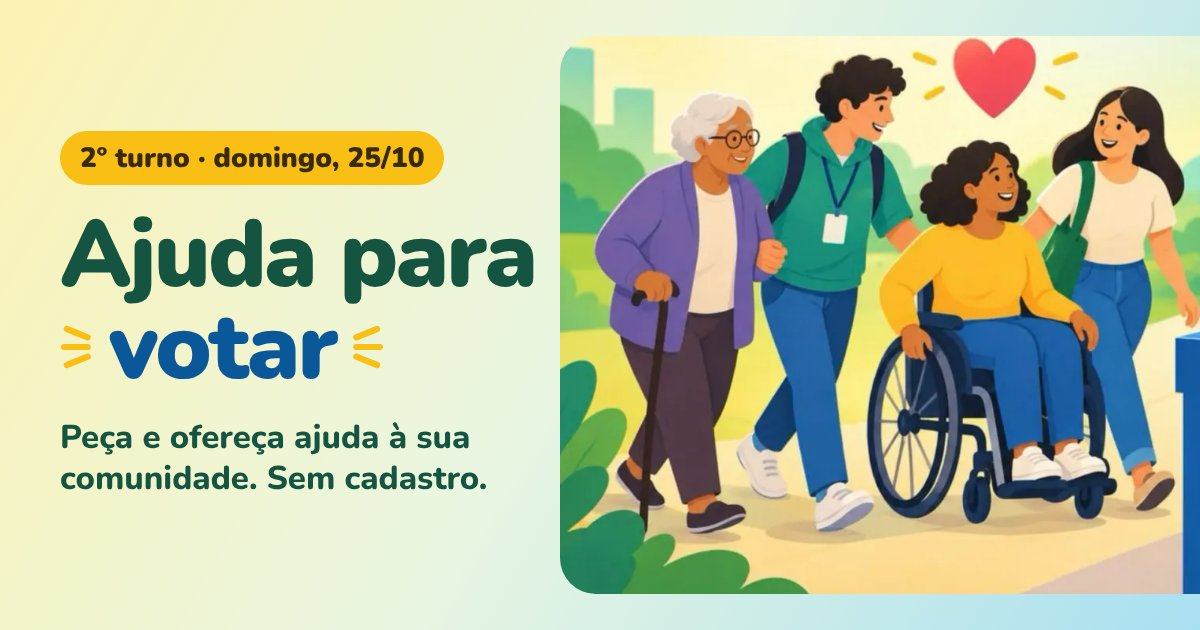
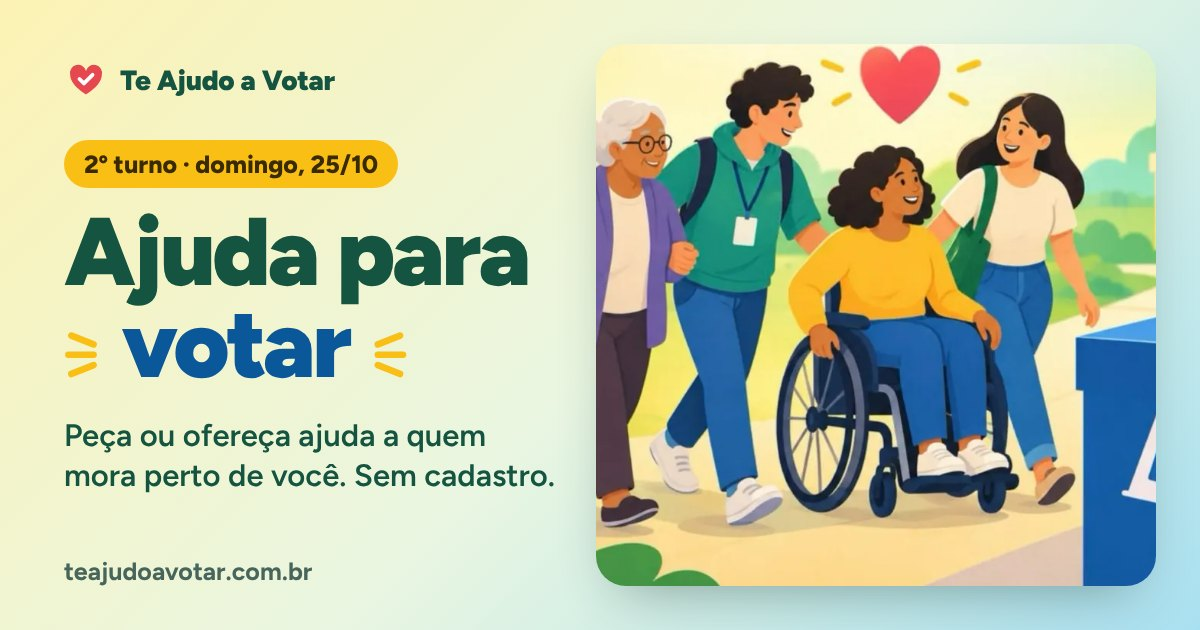
Auditoria de UI/UX: movimento, resposta ao toque, imagem de compartilhamento nova
Movimento (todo desligado para quem pede menos animação no sistema)
- Abertura entra em sequência: frase, botões, linha de confiança, links
- Troca de tela com fade curto; passos do formulário deslizam para frente
  ou para trás conforme a direção
- Cartões do mural entram em cascata; contato, sugestões, lugar escolhido
  e tela de sucesso têm entradas próprias
- Botões respondem ao toque (encolhem de leve) e campos ganham anel de foco
- Barra de progresso anima a largura; aviso flutuante sobe

Detalhes
- Esqueleto de carregamento no mural em vez do texto "Carregando"
- Linha "Sem cadastro · De graça · Apartidário" sob os botões da abertura
- Botão do Instagram ao lado do Compartilhar
- Nome, cidade e bairro começam com maiúscula no teclado do celular
- Status da busca de bairro anunciado para leitor de tela
- Cor da barra do navegador no modo escuro; ícone de tela inicial no iPhone

Compartilhamento
- Nova imagem 1200x630 com a fonte do site, a ilustração e o domínio novo
- Meta tags: tamanho, tipo, texto alternativo, locale e nome do site

Claude-Session: https://claude.ai/code/session_01LB6x3mYEQu7Ru31AeQstCV

diff --git a/index.html b/index.html
@@ -4,17 +4,25 @@
 <meta charset="utf-8">
 <meta name="viewport" content="width=device-width, initial-scale=1, viewport-fit=cover">
 <title>Te Ajudo a Votar</title>
-<meta name="description" content="Peça e ofereça ajuda para votar no 2º turno, domingo, 25 de outubro. Sem cadastro.">
+<meta name="description" content="Peça ou ofereça ajuda a quem mora perto de você para votar no 2º turno, domingo, 25 de outubro. Sem cadastro.">
 <meta property="og:type" content="website">
 <meta property="og:url" content="https://teajudoavotar.com.br/">
 <link rel="canonical" href="https://teajudoavotar.com.br/">
 <meta property="og:title" content="Ajuda para votar · 2º turno, 25 de outubro">
-<meta property="og:description" content="Peça e ofereça ajuda à sua comunidade para chegar até a urna. Sem cadastro.">
-<meta property="og:image" content="https://teajudoavotar.com.br/assets/compartilhar.jpg">
+<meta property="og:description" content="Peça ou ofereça ajuda a quem mora perto de você para chegar até a urna. Sem cadastro, leva 1 minuto.">
+<meta property="og:locale" content="pt_BR">
+<meta property="og:site_name" content="Te Ajudo a Votar">
+<meta property="og:image" content="https://teajudoavotar.com.br/assets/compartilhar.jpg?v=2">
+<meta property="og:image:width" content="1200">
+<meta property="og:image:height" content="630">
+<meta property="og:image:type" content="image/jpeg">
+<meta property="og:image:alt" content="Ajuda para votar: vizinhos acompanham uma senhora e uma jovem em cadeira de rodas até a urna.">
 <meta name="twitter:card" content="summary_large_image">
-<meta name="theme-color" content="#FCF2B4">
+<meta name="theme-color" content="#FCF2B4" media="(prefers-color-scheme: light)">
+<meta name="theme-color" content="#0C1C17" media="(prefers-color-scheme: dark)">
 <meta name="referrer" content="no-referrer">
 <link rel="icon" href="assets/icone.svg" type="image/svg+xml">
+<link rel="apple-touch-icon" href="assets/icone-180.png">
 <link rel="preload" href="assets/figtree.woff2" as="font" type="font/woff2" crossorigin>
 <style>
 @font-face {
@@ -114,8 +122,9 @@ button, input, select, textarea { font: inherit; color: inherit; }
 .topbar { display: flex; align-items: center; justify-content: space-between; gap: 12px; padding-block: 6px; }
 .marca { display: inline-flex; align-items: center; gap: 8px; font-weight: 900; font-size: 1.05rem; letter-spacing: -.01em; color: var(--green-ink); text-decoration: none; white-space: nowrap; }
 .marca svg { width: 30px; height: 30px; flex: none; }
-.btn-share { display: inline-flex; align-items: center; gap: 8px; min-height: 44px; padding: 8px 16px; border-radius: 999px; border: 1px solid var(--line); background: var(--surface); color: var(--green-ink); font-weight: 700; font-size: .95rem; cursor: pointer; }
-@media (max-width: 399px) { .btn-share { width: 44px; padding: 8px; justify-content: center; } .btn-share span { display: none; } }
+.topo-acoes { display: flex; gap: 8px; }
+.btn-share { display: inline-flex; align-items: center; gap: 8px; min-height: 44px; padding: 8px 16px; border-radius: 999px; border: 1px solid var(--line); background: var(--surface); color: var(--green-ink); font-weight: 700; font-size: .95rem; text-decoration: none; cursor: pointer; }
+@media (max-width: 479px) { .btn-share { width: 44px; padding: 8px; justify-content: center; } .btn-share span { display: none; } }
 .hero-main { display: grid; gap: 32px; align-content: center; flex: 1; width: 100%; max-width: 720px; padding-block: 24px; }
 @media (min-width: 900px) { .hero-main { gap: 40px; } }
 .frase { font-size: clamp(1.9rem, 7.5vw, 3rem); font-weight: 700; line-height: 1.2; letter-spacing: -.02em; color: var(--green-ink); text-wrap: pretty; }
@@ -169,7 +178,7 @@ select:focus, input:focus, textarea:focus { border-color: var(--accent); }
 .busca .i { position: absolute; left: 14px; top: 50%; transform: translateY(-50%); pointer-events: none; color: var(--muted); }
 .busca input { padding-left: 44px; }
 .lista { display: grid; gap: 16px; }
-@media (min-width: 760px) { .lista { grid-template-columns: 1fr 1fr; align-items: start; gap: 20px; } }
+@media (min-width: 760px) { .lista { grid-template-columns: 1fr 1fr; align-items: start; gap: 20px; } .lista > .esqueleto { grid-column: 1 / -1; } }
 .card { display: grid; gap: 12px; padding: 22px; border: 1px solid var(--line); border-radius: var(--r-lg); background: var(--surface); box-shadow: var(--shadow); min-width: 0; }
 .card-pedido { --accent: var(--green); --on-accent: var(--on-green); --accent-soft: var(--green-soft); --accent-ink: var(--green-ink); }
 .card-oferta { --accent: var(--blue); --on-accent: var(--on-blue); --accent-soft: var(--blue-soft); --accent-ink: var(--blue-ink); }
@@ -301,6 +310,42 @@ select:focus, input:focus, textarea:focus { border-color: var(--accent); }
 .gestao-acoes { display: flex; flex-wrap: wrap; gap: 10px; }
 .linkbox input { min-width: 0; font-size: .9rem; }
 .toast { position: fixed; left: 50%; bottom: calc(20px + env(safe-area-inset-bottom, 0px)); z-index: 10; max-width: calc(100% - 32px); transform: translateX(-50%); padding: 12px 20px; border-radius: 999px; background: var(--ink); color: var(--bg); font-weight: 700; box-shadow: var(--shadow); text-align: center; }
+/* Movimento: entradas curtas, resposta ao toque, foco visível */
+@keyframes entrar { from { opacity: 0; transform: translateY(10px); } to { opacity: 1; transform: none; } }
+@keyframes entrar-frente { from { opacity: 0; transform: translateX(18px); } to { opacity: 1; transform: none; } }
+@keyframes entrar-volta { from { opacity: 0; transform: translateX(-18px); } to { opacity: 1; transform: none; } }
+@keyframes pop { from { opacity: 0; transform: scale(.9); } 65% { transform: scale(1.03); } to { opacity: 1; transform: none; } }
+@keyframes subir { from { opacity: 0; transform: translate(-50%, 14px); } to { opacity: 1; transform: translate(-50%, 0); } }
+@keyframes brilho { from { background-position: 200% 0; } to { background-position: -200% 0; } }
+.anima { animation: entrar .3s cubic-bezier(.2, .7, .2, 1) both; }
+.hero-main > * { animation: entrar .55s cubic-bezier(.2, .7, .2, 1) both; }
+.hero-main > .portas { animation-delay: .12s; }
+.hero-main > .confianca { animation-delay: .24s; }
+.home-links { animation: entrar .55s .32s cubic-bezier(.2, .7, .2, 1) both; }
+.passo.frente { animation: entrar-frente .28s cubic-bezier(.2, .7, .2, 1) both; }
+.passo.volta { animation: entrar-volta .28s cubic-bezier(.2, .7, .2, 1) both; }
+.card { animation: entrar .35s cubic-bezier(.2, .7, .2, 1) both; }
+.card:nth-child(2) { animation-delay: .05s; } .card:nth-child(3) { animation-delay: .1s; } .card:nth-child(4) { animation-delay: .15s; }
+.card:nth-child(5) { animation-delay: .2s; } .card:nth-child(6) { animation-delay: .25s; }
+.contato, .sugestoes, .vazio, .meus { animation: entrar .25s cubic-bezier(.2, .7, .2, 1) both; }
+.escolhido, .sucesso-ico { animation: pop .4s cubic-bezier(.2, .7, .2, 1) both; }
+.sucesso > h2, .sucesso > p, .gestao, .sucesso > .btn-big { animation: entrar .45s cubic-bezier(.2, .7, .2, 1) both; }
+.sucesso > h2 { animation-delay: .1s; } .sucesso > p { animation-delay: .18s; } .gestao { animation-delay: .26s; } .sucesso > .btn-big { animation-delay: .34s; }
+.erro, .erro-geral { animation: entrar .2s ease-out both; }
+.toast { animation: subir .25s cubic-bezier(.2, .7, .2, 1) both; }
+.porta, .btn-big, .btn-contato, .canal, .mini, .btn-local, .aba, .link, .btn-share, .sugestoes button { transition: transform .12s ease, background-color .18s ease, color .18s ease, box-shadow .18s ease, border-color .18s ease, opacity .18s ease; }
+.porta:active, .btn-big:active, .btn-contato:active, .canal:active, .mini:active, .btn-local:active, .btn-share:active { transform: scale(.97); }
+.sugestoes button:active { background: var(--accent-soft); }
+.btn-big:hover, .btn-contato:hover, .canal:hover, .btn-local:hover { filter: brightness(1.06); }
+.mini:hover { border-color: var(--muted); }
+select, input, textarea { transition: border-color .15s ease, box-shadow .15s ease; }
+select:focus, input:focus, textarea:focus { border-color: var(--accent); box-shadow: 0 0 0 4px var(--accent-soft); }
+.tile, .card.is-ok { transition: opacity .2s ease; }
+.barra i { transition: width .35s cubic-bezier(.2, .7, .2, 1); }
+.confianca { color: var(--green-ink); font-weight: 600; font-size: .98rem; opacity: .85; }
+.esqueleto { display: grid; gap: 16px; }
+@media (min-width: 760px) { .esqueleto { grid-template-columns: 1fr 1fr; gap: 20px; } }
+.esq { height: 168px; border-radius: var(--r-lg); background: linear-gradient(90deg, var(--surface-2) 25%, var(--surface) 50%, var(--surface-2) 75%); background-size: 200% 100%; animation: brilho 1.4s linear infinite; }
 @media (prefers-reduced-motion: reduce) { * { transition: none !important; animation: none !important; } }
 </style>
 </head>
@@ -342,7 +387,10 @@ select:focus, input:focus, textarea:focus { border-color: var(--accent); }
         <svg viewBox="0 0 64 64" aria-hidden="true"><path d="M32 53S9 40 9 24.5A11.5 11.5 0 0 1 32 19a11.5 11.5 0 0 1 23 5.5C55 40 32 53 32 53z" style="fill:var(--red)"/><path d="M22.5 30.5l6.5 6.5 12.5-12.5" style="fill:none;stroke:var(--on-red)" stroke-width="5.5" stroke-linecap="round" stroke-linejoin="round"/></svg>
         Te Ajudo a Votar
       </a>
-      <button class="btn-share" type="button" id="compartilhar" aria-label="Compartilhar"><svg class="i" aria-hidden="true"><use href="#i-share"/></svg><span>Compartilhar</span></button>
+      <div class="topo-acoes">
+        <a class="btn-share" id="insta-topo" href="https://www.instagram.com/teajudoavotar/" target="_blank" rel="noopener" aria-label="Instagram"><svg class="i" aria-hidden="true"><use href="#i-instagram"/></svg><span>Instagram</span></a>
+        <button class="btn-share" type="button" id="compartilhar" aria-label="Compartilhar"><svg class="i" aria-hidden="true"><use href="#i-share"/></svg><span>Compartilhar</span></button>
+      </div>
     </div>
     <div class="hero-main">
       <h1 class="frase"><span class="frase-dias" id="contagem">Eleições 2026.</span> <span id="frase-txt">Peça ou ofereça ajuda a quem mora perto de você.</span></h1>
@@ -356,6 +404,7 @@ select:focus, input:focus, textarea:focus { border-color: var(--accent); }
           <span><strong>Posso ajudar</strong></span>
         </a>
       </div>
+      <p class="confianca">Sem cadastro · De graça · Apartidário</p>
     </div>
     <p class="home-links">
       <a href="#mural" data-ir="mural"><svg class="i" aria-hidden="true"><use href="#i-list"/></svg><span id="link-mural">Ver o mural</span></a>
@@ -463,7 +512,7 @@ select:focus, input:focus, textarea:focus { border-color: var(--accent); }
       <form id="form" novalidate>
         <section class="passo" data-passo="nome">
           <label class="pergunta" for="c-nome" id="p-nome">Qual é o seu primeiro nome?</label>
-          <input id="c-nome" maxlength="40" autocomplete="given-name" enterkeyhint="next" aria-describedby="d-nome e-nome">
+          <input id="c-nome" maxlength="40" autocomplete="given-name" autocapitalize="words" enterkeyhint="next" aria-describedby="d-nome e-nome">
           <p class="dica" id="d-nome"></p>
           <p class="erro" id="e-nome" hidden></p>
         </section>
@@ -479,7 +528,7 @@ select:focus, input:focus, textarea:focus { border-color: var(--accent); }
               <button class="limpar" type="button" id="c-busca-limpar" aria-label="Limpar" hidden><svg class="i" aria-hidden="true"><use href="#i-x"/></svg></button>
             </div>
             <ul class="sugestoes" id="sugestoes" hidden></ul>
-            <p class="nota" id="onde-status" hidden></p>
+            <p class="nota" id="onde-status" aria-live="polite" hidden></p>
             <button class="link" type="button" id="c-manual" style="justify-self:start">Escrever o endereço à mão</button>
           </div>
           <div class="escolhido" id="onde-escolhido" hidden>
@@ -493,11 +542,11 @@ select:focus, input:focus, textarea:focus { border-color: var(--accent); }
             </div>
             <div class="campo-sub">
               <label for="c-cidade">Cidade</label>
-              <input id="c-cidade" maxlength="60" autocomplete="address-level2" enterkeyhint="next">
+              <input id="c-cidade" maxlength="60" autocomplete="address-level2" autocapitalize="words" enterkeyhint="next">
             </div>
             <div class="full campo-sub">
               <label for="c-bairro">Bairro <span class="opc">(opcional)</span></label>
-              <input id="c-bairro" maxlength="60" autocomplete="address-level3" enterkeyhint="next">
+              <input id="c-bairro" maxlength="60" autocomplete="address-level3" autocapitalize="words" enterkeyhint="next">
             </div>
           </div>
           <p class="erro" id="e-onde" hidden></p>
@@ -829,7 +878,10 @@ select:focus, input:focus, textarea:focus { border-color: var(--accent); }
     $('#n-oferta').textContent = abertos.oferta;
     document.querySelectorAll('.aba').forEach(function (b) { b.setAttribute('aria-selected', String(b.getAttribute('data-tab') === st.tab)); });
 
-    if (st.carregando) { lista.innerHTML = '<p class="carregando">Carregando o mural…</p>'; $('#stats').textContent = ''; $('#mais').hidden = true; return; }
+    if (st.carregando) {
+      lista.innerHTML = '<div class="esqueleto" aria-label="Carregando o mural" role="status"><div class="esq"></div><div class="esq"></div><div class="esq"></div></div>';
+      $('#stats').textContent = ''; $('#mais').hidden = true; return;
+    }
     if (st.erroLista) {
       lista.innerHTML = '<div class="vazio"><p>' + esc(st.erroLista) + '</p><button class="btn-contato" type="button" data-acao="recarregar">Tentar de novo</button></div>';
       $('#mais').hidden = true; return;
@@ -1189,9 +1241,14 @@ select:focus, input:focus, textarea:focus { border-color: var(--accent); }
   }
 
   function irPasso(n, semFoco) {
+    var anterior = st.passo;
     st.passo = n;
     var k = PASSOS[n], ultimo = n === PASSOS.length - 1;
-    document.querySelectorAll('#form .passo[data-passo]').forEach(function (s) { s.hidden = s.getAttribute('data-passo') !== k; });
+    document.querySelectorAll('#form .passo[data-passo]').forEach(function (s) {
+      var ativo = s.getAttribute('data-passo') === k;
+      s.hidden = !ativo;
+      if (ativo && n !== anterior) { s.classList.remove('frente', 'volta'); void s.offsetWidth; s.classList.add(n > anterior ? 'frente' : 'volta'); }
+    });
     $('#passo-n').textContent = (n + 1) + ' de ' + PASSOS.length;
     $('#barra').style.width = Math.round(((n + 1) / PASSOS.length) * 100) + '%';
     $('#c-avancar').innerHTML = ultimo
@@ -1323,10 +1380,16 @@ select:focus, input:focus, textarea:focus { border-color: var(--accent); }
 
   // ---------- navegação ----------
   var VIEWS = { home: '#home', mural: '#mural-view', info: '#info-view', form: '#form-view' };
+  function reanimar(el, classe) {
+    if (!el) return;
+    el.classList.remove(classe); void el.offsetWidth; el.classList.add(classe);
+  }
   function mostrar(view) {
+    var mudou = st.view !== view;
     Object.keys(VIEWS).forEach(function (k) { $(VIEWS[k]).hidden = k !== view; });
     st.view = view;
     window.scrollTo(0, 0);
+    if (mudou) reanimar($(VIEWS[view]), 'anima');
   }
 
   function aplicarRota(h) {
@@ -1366,7 +1429,7 @@ select:focus, input:focus, textarea:focus { border-color: var(--accent); }
   // ---------- início ----------
   function iniciar() {
     $('#demo').hidden = REMOTO;
-    if (CFG.INSTAGRAM) $('#link-insta').href = CFG.INSTAGRAM;
+    if (CFG.INSTAGRAM) { $('#link-insta').href = CFG.INSTAGRAM; $('#insta-topo').href = CFG.INSTAGRAM; }
     montarForm();
     $('#f-uf').value = st.uf;
 
